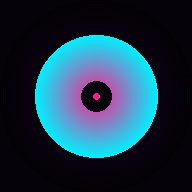
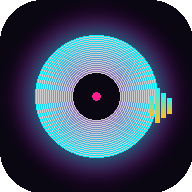
Add files via upload

diff --git a/index.html b/index.html
@@ -10,7 +10,11 @@
 <title>NEONWAVE CAR</title>
 <link rel="manifest" href="manifest.json">
 <link rel="icon" type="image/png" sizes="192x192" href="icon-192.png">
-<link rel="apple-touch-icon" href="icon-192.png">
+<link rel="icon" type="image/png" sizes="512x512" href="icon-512.png">
+<link rel="apple-touch-icon" sizes="192x192" href="icon-192.png">
+<link rel="apple-touch-icon" sizes="512x512" href="icon-512.png">
+<meta name="application-name" content="NEONWAVE">
+<meta name="apple-mobile-web-app-title" content="NEONWAVE">
 <script src="https://cdnjs.cloudflare.com/ajax/libs/jsmediatags/3.9.5/jsmediatags.min.js"></script>
 <script src="https://www.youtube.com/iframe_api"></script>
 <style>
